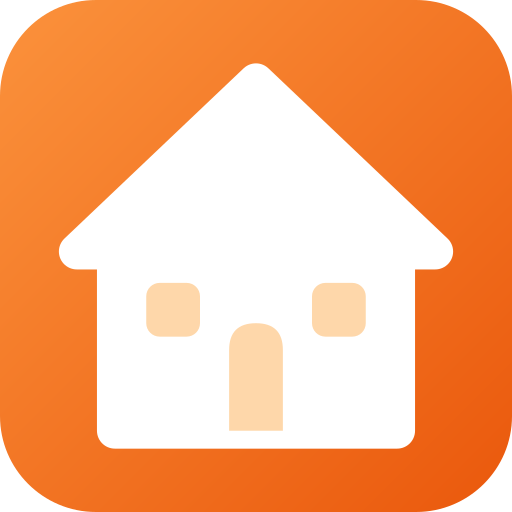
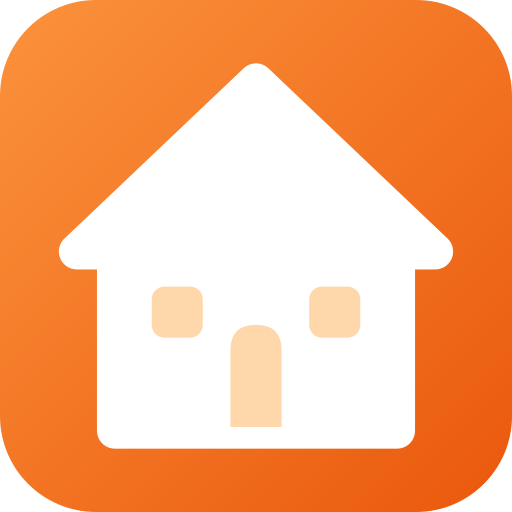
家アイコン内側を95%縮小＋ボトムシート初期高さを10px上げる
- icon.svg / apple-icon.svg: ドアと窓を中心 (256,346) で 95% に縮小
- MembersListSheet: PEEK_HEIGHT 250 → 260（2人目までより余裕で見える）

diff --git a/houmon-app/src/components/MembersListSheet.tsx b/houmon-app/src/components/MembersListSheet.tsx
@@ -85,7 +85,7 @@ export function applyAllFilters(members: MemberWithVisitInfo[], a: AppliedFilter
 
 // peek: 初期表示で「メンバーの2人目ぐらいまで見える」高さ
 // （ヘッダー + あ行ラベル + カード2枚分 + 少し下に余白）
-const PEEK_HEIGHT = 250;
+const PEEK_HEIGHT = 260;
 // mini: 見出し行＋ドラッグハンドルだけ（限界まで下げる）
 const MINI_HEIGHT = 72;
 
